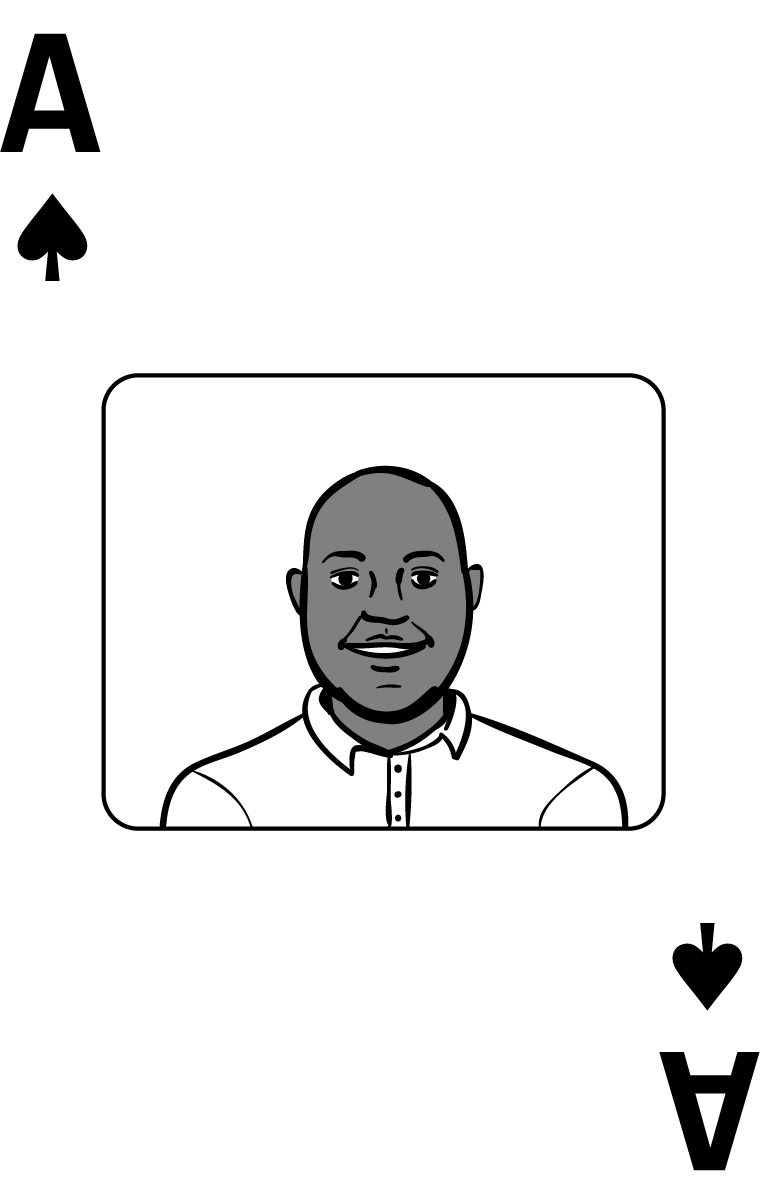
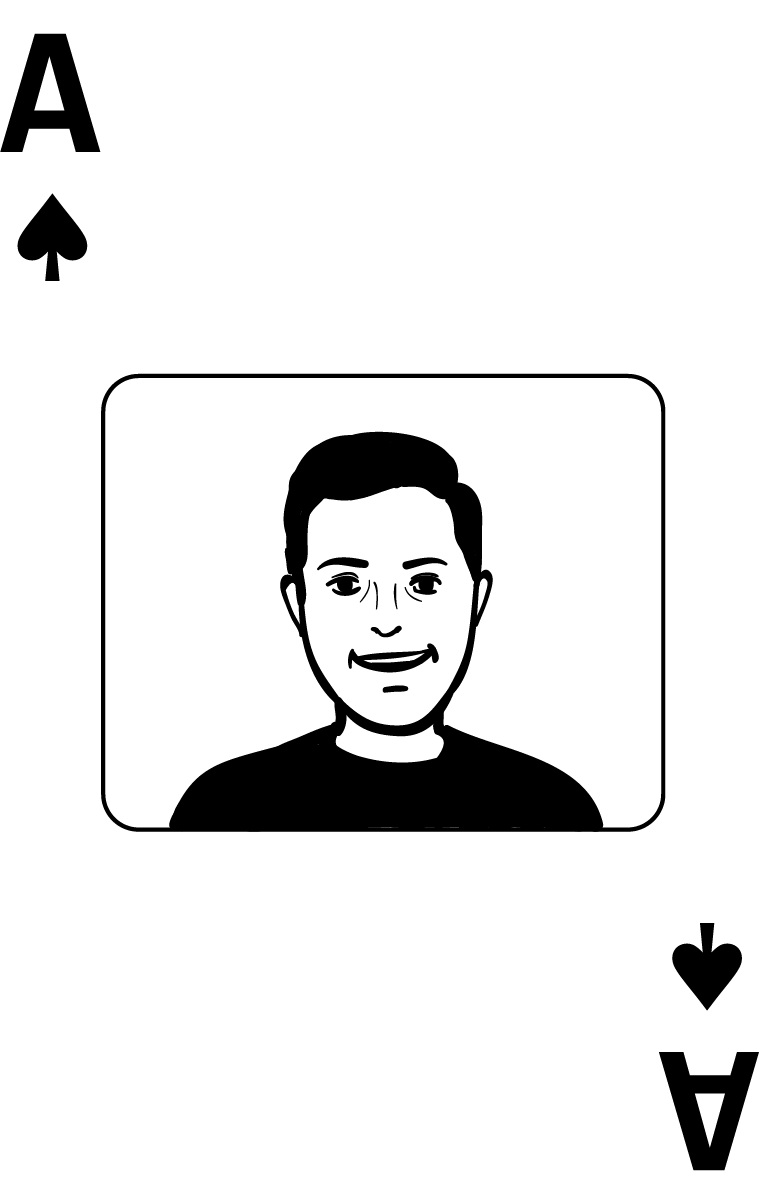
new card

Changed region(s): [[0.1816, 0.338, 0.8474, 0.7068], [0.8474, 0.3073, 0.8776, 0.338]]

diff --git a/index.html b/index.html
@@ -59,7 +59,7 @@
 				<li data-ref = "s_07" class="indicator taken" onclick="scroll_to_card(this)">7</li>
 				<li data-ref = "s_08" class="indicator taken" onclick="scroll_to_card(this)">8</li>
 				<li data-ref = "s_09" class="indicator">9</li>
-				<li data-ref = "s_10" class="indicator">10</li>
+				<li data-ref = "s_10" class="indicator taken" onclick="scroll_to_card(this)">10</li>
 				<li data-ref = "s_11" class="indicator taken" onclick="scroll_to_card(this)">J</li>
 				<li data-ref = "s_12" class="indicator taken" onclick="scroll_to_card(this)">Q</li>
 				<li data-ref = "s_13" class="indicator taken" onclick="scroll_to_card(this)">K</li>
@@ -313,6 +313,16 @@
 			<span class="name">Kim, Sunny, Lilly</span>
 			<a class="download" href="assets/c_09.png" target="_blank"></a>
 		</li>
+		<li class="card_frame" id="s_01" data-orderdate="21" data-ordercard="27">
+			<div class="card">
+				<div class="card_inner is_flipped" onclick="flip(this)">
+					<div class="card_face card_face_front"></div>
+					<div class="card_face card_face_back"></div>
+				</div>
+			</div>
+			<span class="name">Ronak</span>
+			<a class="download" href="assets/s_07.png" target="_blank"></a>
+		</li>
 		<li class="card_frame" id="s_07" data-orderdate="22" data-ordercard="33">
 			<div class="card">
 				<div class="card_inner is_flipped" onclick="flip(this)">
@@ -333,7 +343,7 @@
 			<span class="name">Lindsay</span>
 			<a class="download" href="assets/h_04.png" target="_blank"></a>
 		</li>
-		<li class="card_frame" id="s_01" data-orderdate="27" data-ordercard="27">
+		<li class="card_frame" id="s_10" data-orderdate="27" data-ordercard="36">
 			<div class="card">
 				<div class="card_inner is_flipped" onclick="flip(this)">
 					<div class="card_face card_face_front"></div>
@@ -341,7 +351,7 @@
 				</div>
 			</div>
 			<span class="name">Ahmed</span>
-			<a class="download" href="assets/s_01.png" target="_blank"></a>
+			<a class="download" href="assets/s_10.png" target="_blank"></a>
 		</li>
 		<li class="card_frame" id="h_12" data-orderdate="28" data-ordercard="51">
 			<div class="card">
